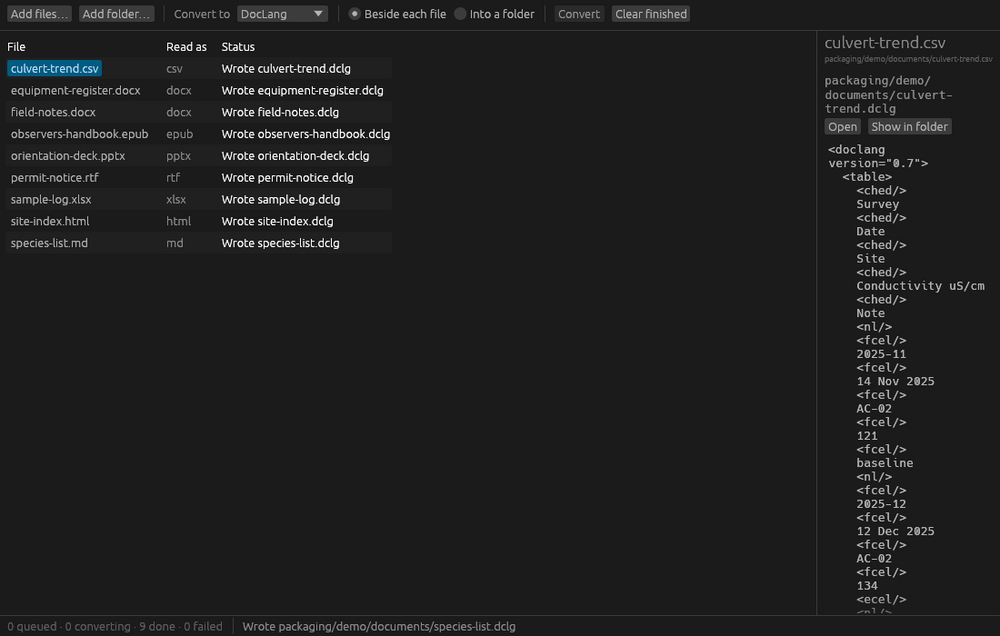
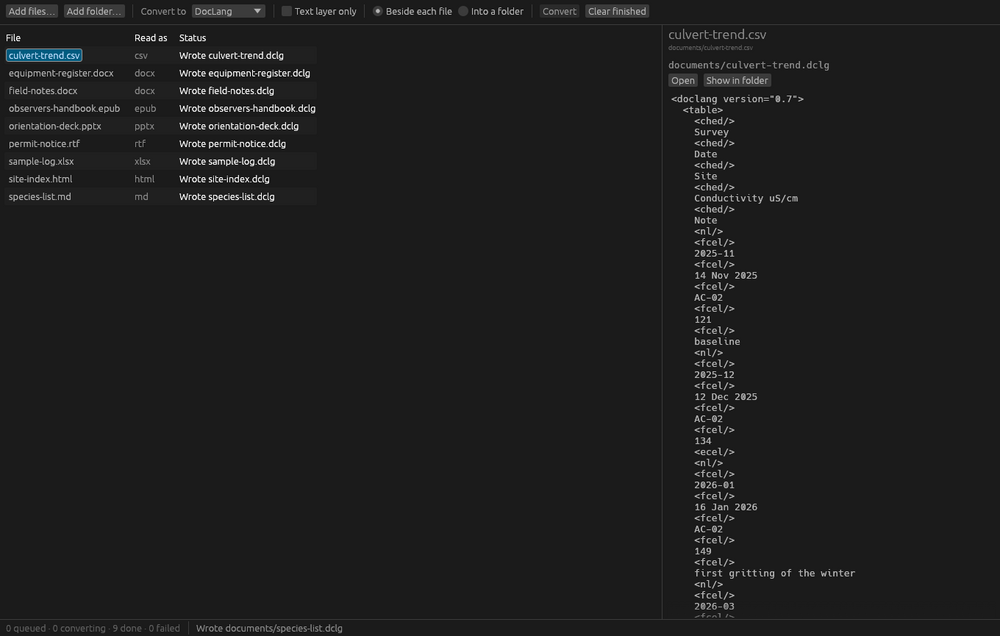
CC0 license and CONTRIBUTING, as slipcaseformat.org; fresh Duckling screenshots

Changed region(s): [[0.0, 0.0, 0.992, 0.9858], [0.0, 0.956, 0.527, 1.0]]

diff --git a/ecosystem/index.html b/ecosystem/index.html
@@ -104,7 +104,7 @@
 
     <footer>
         <p class="made-by"><a href="https://excelano.com" rel="noopener"><img class="on-light" src="/img/excelano-logo.svg" alt="Excelano" width="140" height="31"><img class="on-dark" src="/img/excelano-logo-light.svg" alt="Excelano" width="140" height="31"></a></p>
-        <p><small>Segler and Duckling are <a href="https://excelano.com" rel="noopener">Excelano</a> applications. DocLang, Docling, docling.rs, Label Studio and the other projects named here belong to their own maintainers, and a link is a pointer, not an endorsement in either direction. This site is open to pull requests at <a href="https://github.com/excelano/segler.org" rel="noopener">github.com/excelano/segler.org</a>.</small></p>
+        <p><small>Segler and Duckling are <a href="https://excelano.com" rel="noopener">Excelano</a> applications. DocLang, Docling, docling.rs, Label Studio and the other projects named here belong to their own maintainers, and a link is a pointer, not an endorsement in either direction. This site is open to pull requests at <a href="https://github.com/excelano/segler.org" rel="noopener">github.com/excelano/segler.org</a> and, apart from the artwork and the vendored Axe, is dedicated to the public domain under <a href="https://creativecommons.org/publicdomain/zero/1.0/" rel="noopener">CC0 1.0</a>.</small></p>
     </footer>
 
 </article>

diff --git a/index.html b/index.html
@@ -123,7 +123,7 @@
 
     <footer>
         <p class="made-by"><a href="https://excelano.com" rel="noopener"><img class="on-light" src="/img/excelano-logo.svg" alt="Excelano" width="140" height="31"><img class="on-dark" src="/img/excelano-logo-light.svg" alt="Excelano" width="140" height="31"></a></p>
-        <p><small>Segler and Duckling are <a href="https://excelano.com" rel="noopener">Excelano</a> applications. DocLang, Docling, docling.rs, Label Studio and the other projects named here belong to their own maintainers, and a link is a pointer, not an endorsement in either direction. This site is open to pull requests at <a href="https://github.com/excelano/segler.org" rel="noopener">github.com/excelano/segler.org</a>.</small></p>
+        <p><small>Segler and Duckling are <a href="https://excelano.com" rel="noopener">Excelano</a> applications. DocLang, Docling, docling.rs, Label Studio and the other projects named here belong to their own maintainers, and a link is a pointer, not an endorsement in either direction. This site is open to pull requests at <a href="https://github.com/excelano/segler.org" rel="noopener">github.com/excelano/segler.org</a> and, apart from the artwork and the vendored Axe, is dedicated to the public domain under <a href="https://creativecommons.org/publicdomain/zero/1.0/" rel="noopener">CC0 1.0</a>.</small></p>
     </footer>
 
 </article>

diff --git a/404.html b/404.html
@@ -47,7 +47,7 @@
 
     <footer>
         <p class="made-by"><a href="https://excelano.com" rel="noopener"><img class="on-light" src="/img/excelano-logo.svg" alt="Excelano" width="140" height="31"><img class="on-dark" src="/img/excelano-logo-light.svg" alt="Excelano" width="140" height="31"></a></p>
-        <p><small>Segler and Duckling are <a href="https://excelano.com" rel="noopener">Excelano</a> applications. DocLang, Docling, docling.rs, Label Studio and the other projects named here belong to their own maintainers, and a link is a pointer, not an endorsement in either direction. This site is open to pull requests at <a href="https://github.com/excelano/segler.org" rel="noopener">github.com/excelano/segler.org</a>.</small></p>
+        <p><small>Segler and Duckling are <a href="https://excelano.com" rel="noopener">Excelano</a> applications. DocLang, Docling, docling.rs, Label Studio and the other projects named here belong to their own maintainers, and a link is a pointer, not an endorsement in either direction. This site is open to pull requests at <a href="https://github.com/excelano/segler.org" rel="noopener">github.com/excelano/segler.org</a> and, apart from the artwork and the vendored Axe, is dedicated to the public domain under <a href="https://creativecommons.org/publicdomain/zero/1.0/" rel="noopener">CC0 1.0</a>.</small></p>
     </footer>
 
 </article>

diff --git a/doclang/index.html b/doclang/index.html
@@ -78,7 +78,7 @@
 
     <footer>
         <p class="made-by"><a href="https://excelano.com" rel="noopener"><img class="on-light" src="/img/excelano-logo.svg" alt="Excelano" width="140" height="31"><img class="on-dark" src="/img/excelano-logo-light.svg" alt="Excelano" width="140" height="31"></a></p>
-        <p><small>Segler and Duckling are <a href="https://excelano.com" rel="noopener">Excelano</a> applications. DocLang, Docling, docling.rs, Label Studio and the other projects named here belong to their own maintainers, and a link is a pointer, not an endorsement in either direction. This site is open to pull requests at <a href="https://github.com/excelano/segler.org" rel="noopener">github.com/excelano/segler.org</a>.</small></p>
+        <p><small>Segler and Duckling are <a href="https://excelano.com" rel="noopener">Excelano</a> applications. DocLang, Docling, docling.rs, Label Studio and the other projects named here belong to their own maintainers, and a link is a pointer, not an endorsement in either direction. This site is open to pull requests at <a href="https://github.com/excelano/segler.org" rel="noopener">github.com/excelano/segler.org</a> and, apart from the artwork and the vendored Axe, is dedicated to the public domain under <a href="https://creativecommons.org/publicdomain/zero/1.0/" rel="noopener">CC0 1.0</a>.</small></p>
     </footer>
 
 </article>

diff --git a/duckling/index.html b/duckling/index.html
@@ -90,7 +90,7 @@
 
     <footer>
         <p class="made-by"><a href="https://excelano.com" rel="noopener"><img class="on-light" src="/img/excelano-logo.svg" alt="Excelano" width="140" height="31"><img class="on-dark" src="/img/excelano-logo-light.svg" alt="Excelano" width="140" height="31"></a></p>
-        <p><small>Segler and Duckling are <a href="https://excelano.com" rel="noopener">Excelano</a> applications. DocLang, Docling, docling.rs, Label Studio and the other projects named here belong to their own maintainers, and a link is a pointer, not an endorsement in either direction. This site is open to pull requests at <a href="https://github.com/excelano/segler.org" rel="noopener">github.com/excelano/segler.org</a>.</small></p>
+        <p><small>Segler and Duckling are <a href="https://excelano.com" rel="noopener">Excelano</a> applications. DocLang, Docling, docling.rs, Label Studio and the other projects named here belong to their own maintainers, and a link is a pointer, not an endorsement in either direction. This site is open to pull requests at <a href="https://github.com/excelano/segler.org" rel="noopener">github.com/excelano/segler.org</a> and, apart from the artwork and the vendored Axe, is dedicated to the public domain under <a href="https://creativecommons.org/publicdomain/zero/1.0/" rel="noopener">CC0 1.0</a>.</small></p>
     </footer>
 
 </article>

diff --git a/CONTRIBUTING.md b/CONTRIBUTING.md
@@ -1,0 +1,31 @@
+# Contributing
+
+The site is public and so is this repository. A correction, clearer wording, a broken link, a claim about another project that has gone out of date, a rendering bug in a browser we do not have: all of it is welcome as a pull request or an issue.
+
+## Contributions are dedicated to the public domain
+
+Everything here is dedicated to the public domain under [CC0 1.0](LICENSE). By contributing you dedicate your contribution on the same terms, waiving copyright and related rights in it to the extent possible under law.
+
+## Claims about other projects
+
+The ecosystem page describes Docling, docling.rs, the DocLang viewer, Label Studio and DocLang itself. Each statement should be something the project's own site or repository says. If one is wrong or has gone stale, a pull request that fixes it and links the source is the most useful thing you can send. Segler and Duckling are Excelano's applications, and what the pages say about them is the applications' own behaviour: a claim that does not match what the application does is a bug in the page.
+
+## Two things that do not belong here
+
+The DocLang format is defined in [doclang-project/doclang](https://github.com/doclang-project/doclang), and this site neither restates it nor amends it. A change to what DocLang is goes there. The applications are developed in [excelano/segler](https://github.com/excelano/segler) and [excelano/duckling](https://github.com/excelano/duckling), and a request for a feature or a report of a defect goes to those repositories, not to this one.
+
+## House style
+
+Prose, in paragraphs, in full sentences with a claim stated plainly rather than hedged. Plain HTML: no framework, no build step, no JavaScript beyond the theme toggle, and nothing loaded from a third party, so no fonts, analytics or CDN. A page must work with JavaScript off.
+
+Styling comes from the vendored [Axe](https://github.com/excelano/axe) framework, which styles standard HTML elements without classes. `brand.css` holds only the variables. The site's own rules go in `site.css`, which loads after `axe.css`, and a class belongs there only when Axe has no opinion about what you are building.
+
+Check both themes. The toggle in the navigation bar switches them, and a colour that only works in one is a bug. Check a narrow window as well.
+
+## Before you open a pull request
+
+Serve the site and look at what you changed:
+
+```sh
+python3 -m http.server 8000    # then http://localhost:8000/
+```

diff --git a/README.md b/README.md
@@ -5,3 +5,11 @@ The site for Segler, the DocLang viewer and editor, and for the ecosystem around
 Plain HTML on the vendored Axe stylesheet, no build step. `brand.css` carries the Segler palette over Axe and `site.css`, loaded after Axe, the site's own rules; `./update-axe.sh` refreshes the vendored copy. Screenshots are the light and dark captures from the product pages on excelano.com.
 
 Deploy with `updatesite segler.org` once the site is added to that script.
+
+Pull requests are welcome, and [CONTRIBUTING.md](CONTRIBUTING.md) says what belongs here. A merged change goes live when the maintainer deploys, which is a manual step.
+
+## Licence
+
+Everything here is dedicated to the public domain under [CC0 1.0](LICENSE).
+
+Three exceptions, each carried here as a copy. `axe/` is from [excelano/axe](https://github.com/excelano/axe), MIT licensed. The Segler and Duckling icons and screenshots belong to [excelano/segler](https://github.com/excelano/segler) (Apache-2.0) and [excelano/duckling](https://github.com/excelano/duckling) (MIT). The Excelano logo is Excelano's mark. All © Excelano LLC.
